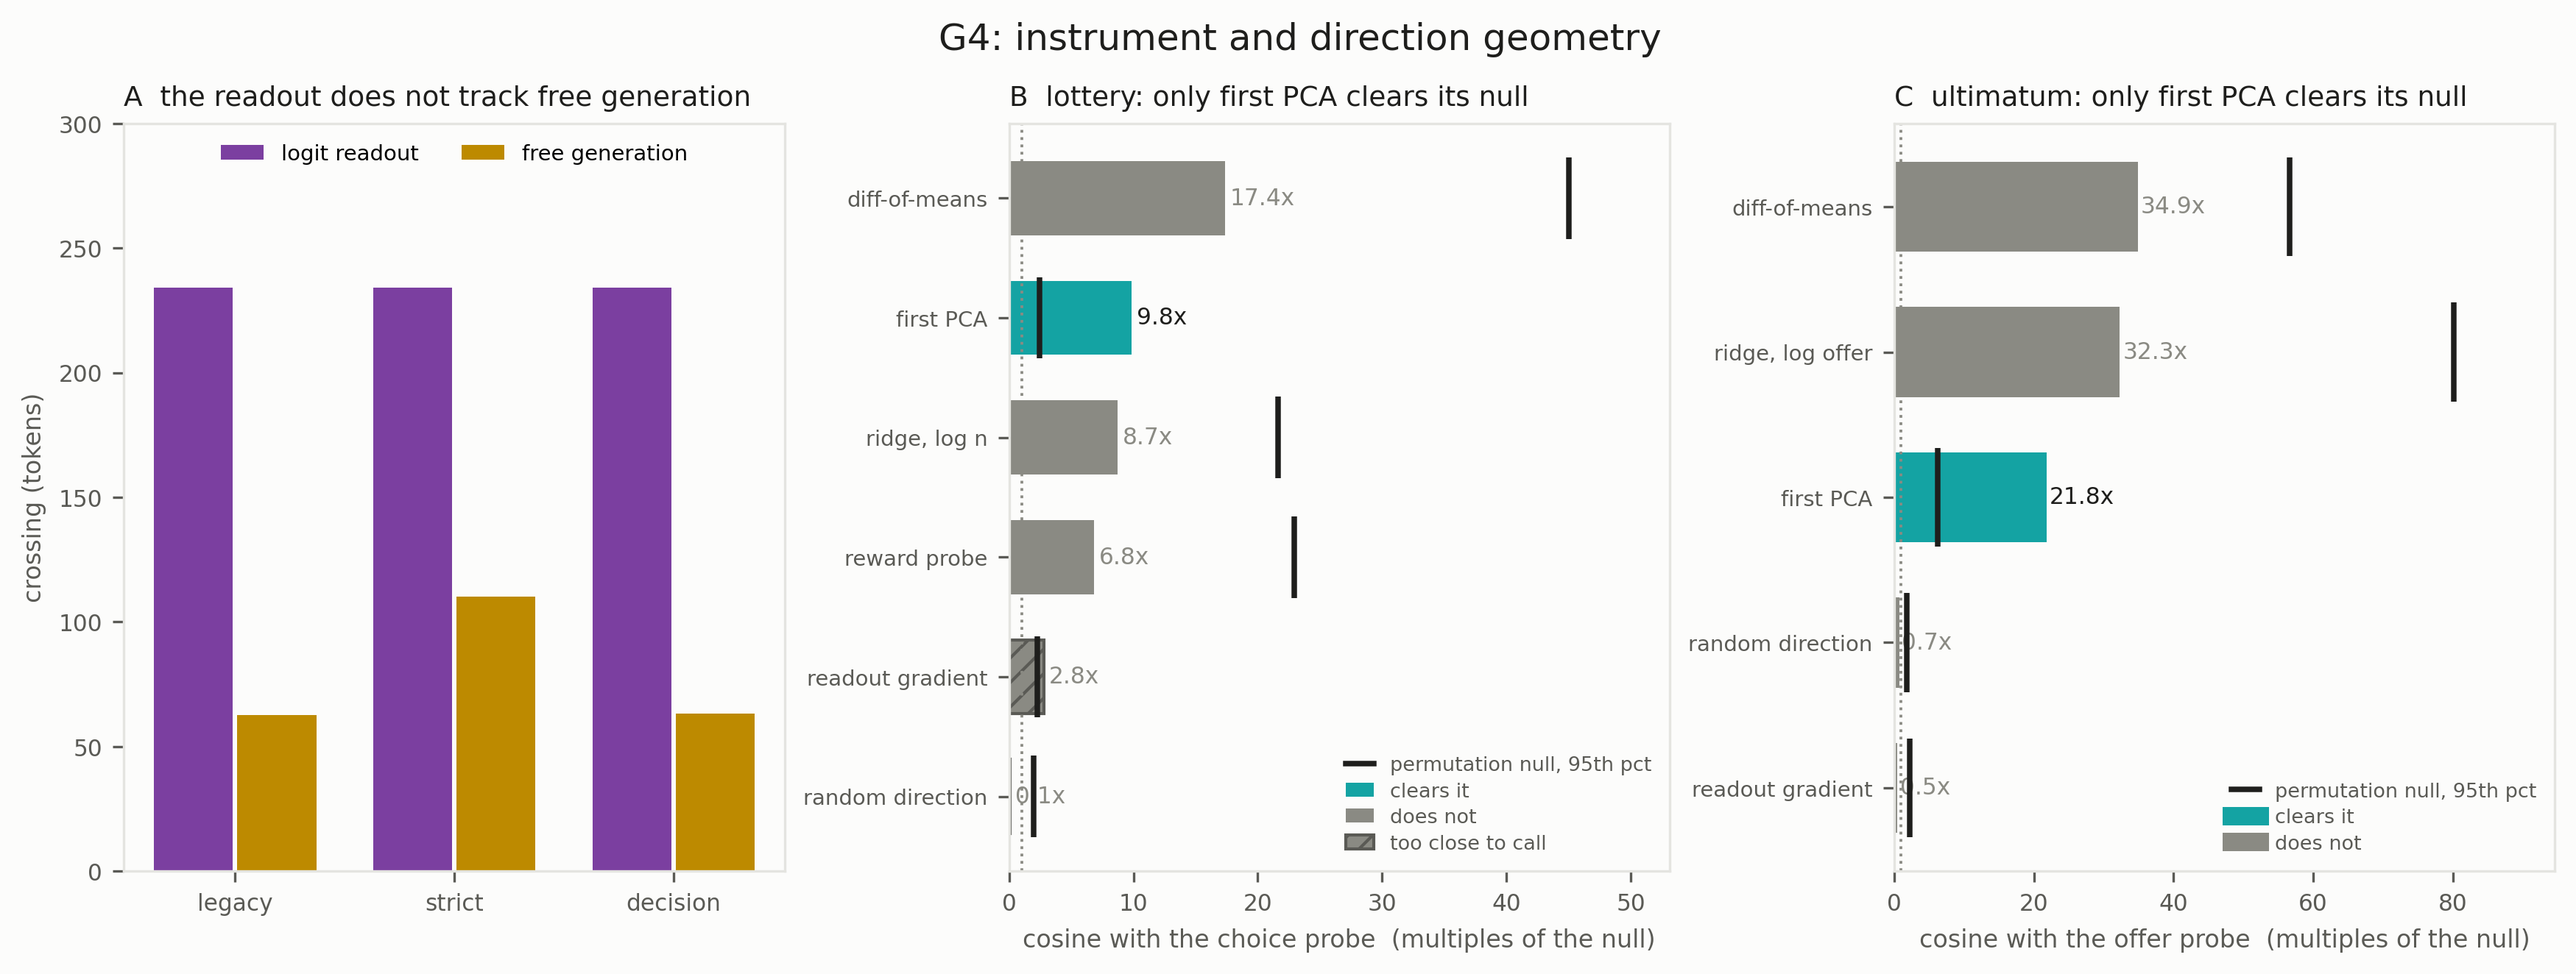
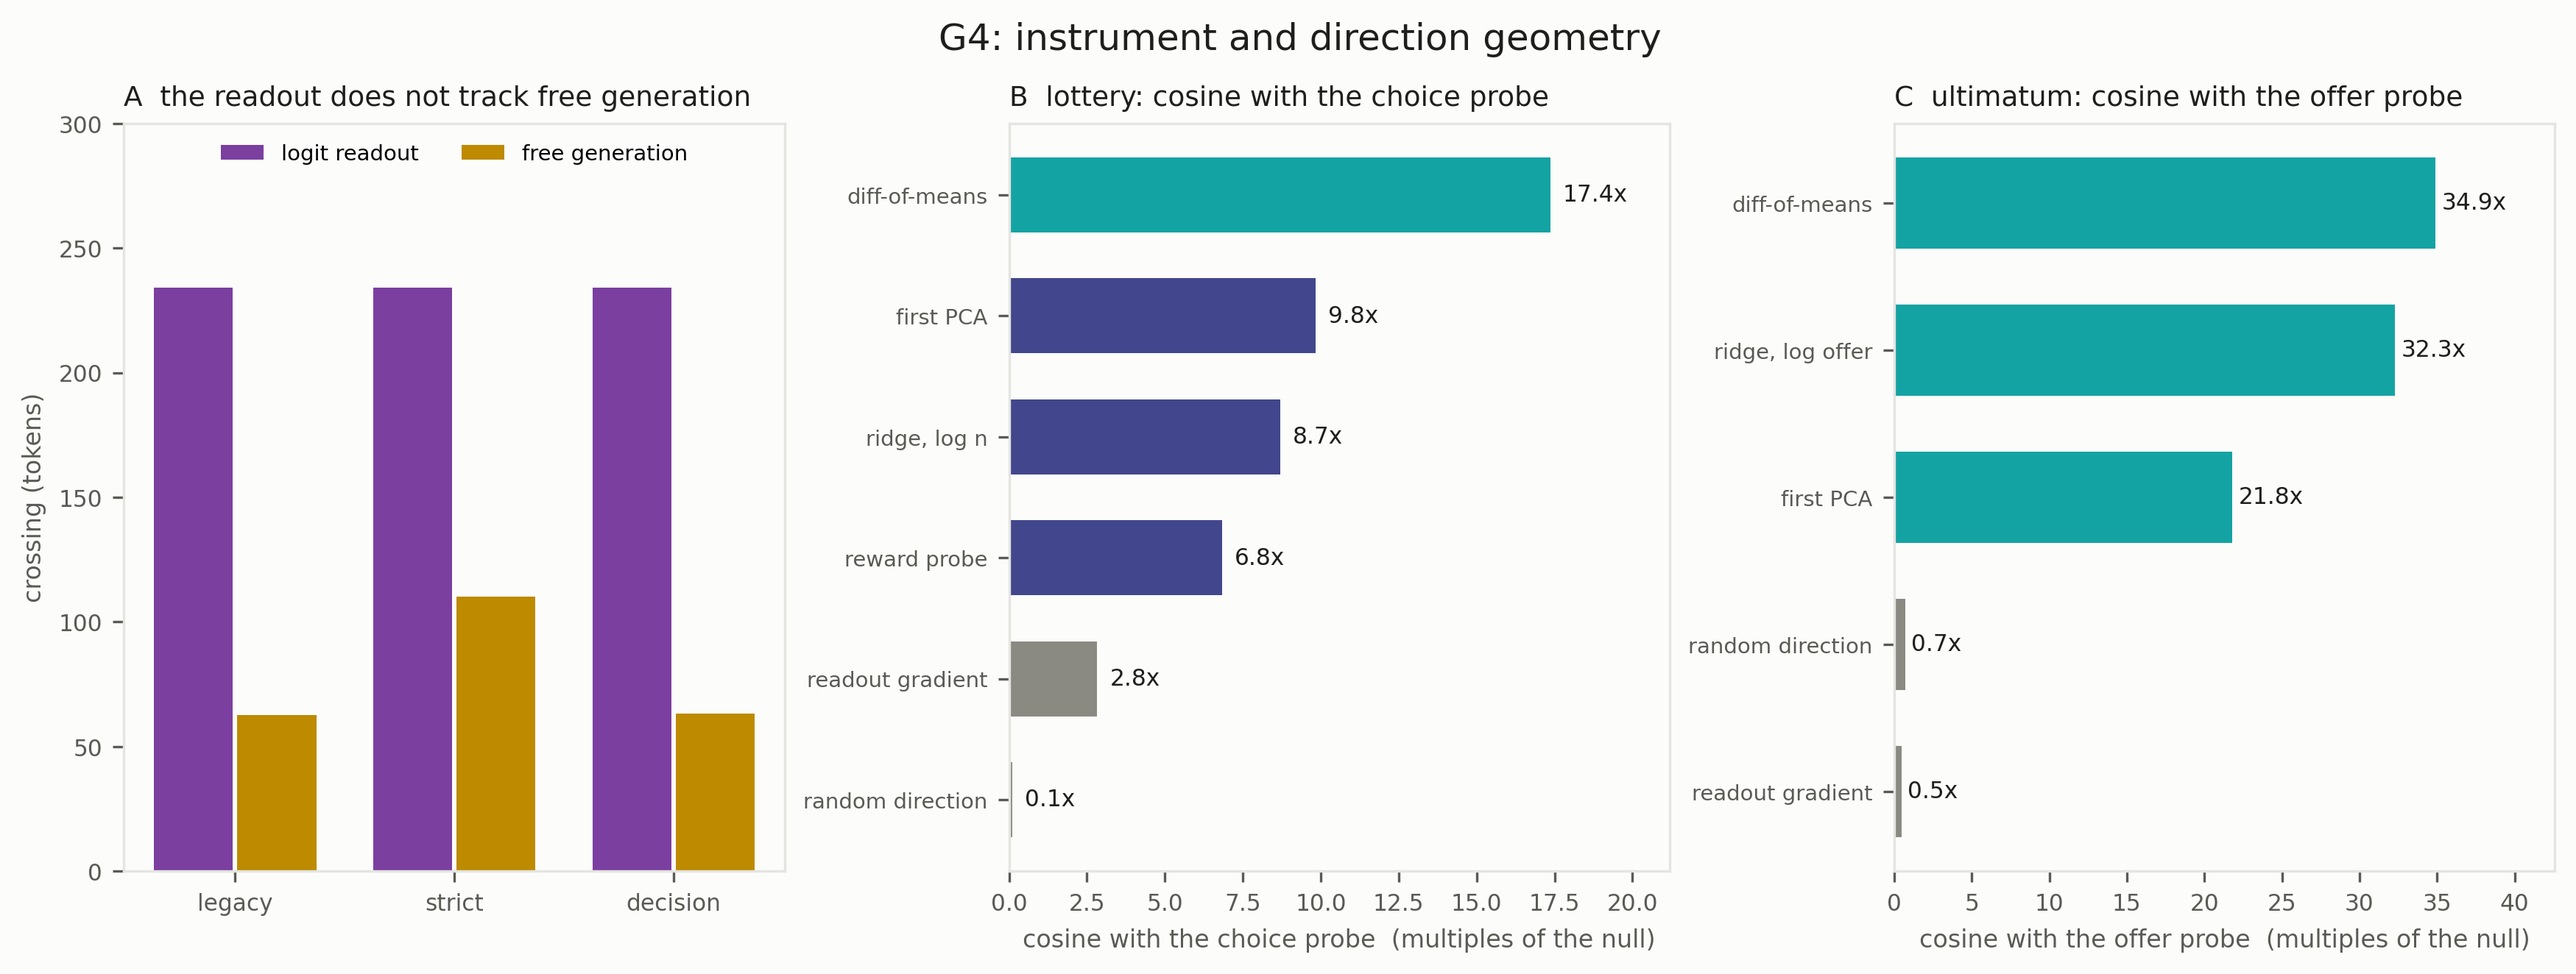
g4_summary: plain bars on both geometry panels, no rules or null ticks

diff --git a/cv_bench/g4_figure.py b/cv_bench/g4_figure.py
@@ -66,67 +66,20 @@ def panel_e(ax):
             continue
         labels.append(lab)
         vals.append(float(np.mean(m)))
-    # The permutation null, from the g4null re-collection. The probe does not
-    # reproduce between runs, so the refit's own cosine is carried alongside:
-    # a bar is only called either way when both fits agree about its null.
-    import csv as _csv
-    R = os.environ.get("ICLR_RUNROOT",
-                       "/orcd/data/gabrieli/001/guna23/iclr_risk_2027")
-    nrows = {r["direction"]: r for r in
-             _csv.DictReader(open(f"{R}/g4null/g4null_lottery.csv"))}
-    keys = [k for k, _ in want if any(l == lab for l, (k2, lab) in
-                                      zip(labels, want) if k2 == k)]
-    keys = [k for k, lab in want if lab in labels]
-    p95 = [float(nrows[k]["perm_null_p95"]) if k in nrows else float("nan")
-           for k in keys]
-    refit = [float(nrows[k]["multiples_of_null"]) if k in nrows else float("nan")
-             for k in keys]
     order = np.argsort(vals)
     labels = [labels[i] for i in order]
-    p95 = [p95[i] for i in order]
-    refit = [refit[i] for i in order]
     vals = [vals[i] for i in order]
     ys = np.arange(len(vals))
-    # teal: clears under both fits. grey: inside under both. hatched: they differ.
-    state = []
-    for v, r, q in zip(vals, refit, p95):
-        if q != q:
-            state.append("none")
-        elif (v > q) == (r > q):
-            state.append("clears" if v > q else "inside")
-        else:
-            state.append("split")
-    cols = [TEAL if st == "clears" else MUTED for st in state]
-    bars = ax.barh(ys, vals, color=cols, height=0.62,
-                   hatch=["///" if st == "split" else "" for st in state],
-                   edgecolor=INK2, linewidth=0.0)
-    for b, st in zip(bars, state):
-        if st == "split":
-            b.set_linewidth(1.0)
-    for i, q in enumerate(p95):
-        if q == q:
-            ax.plot([q, q], [i - 0.34, i + 0.34], color=INK, lw=1.8, zorder=6,
-                    solid_capstyle="butt")
-    for i, (v, st) in enumerate(zip(vals, state)):
-        ax.text(v + 0.4, i, f"{v:.1f}x", va="center",
-                color=INK if st == "clears" else MUTED, fontsize=7.5)
-    ax.set_xlim(0, max(vals + [q for q in p95 if q == q]) * 1.18)
-    ax.axvline(1.0, color=MUTED, lw=0.9, ls=":")
+    cols = [TEAL if v >= 10 else (NAVY if v >= 3 else MUTED) for v in vals]
+    ax.barh(ys, vals, color=cols, height=0.62)
+    for i, v in enumerate(vals):
+        ax.text(v + 0.4, i, f"{v:.1f}x", va="center", color=INK, fontsize=7.5)
+    ax.set_xlim(0, max(vals) * 1.22)
     ax.set_yticks(ys)
     ax.set_yticklabels(labels, fontsize=7)
     ax.set_xlabel("cosine with the choice probe  (multiples of the null)",
                   color=INK2, fontsize=8)
-    from matplotlib.lines import Line2D
-    from matplotlib.patches import Patch
-    ax.legend(handles=[Line2D([], [], color=INK, lw=1.8,
-                              label="permutation null, 95th pct"),
-                       Patch(facecolor=TEAL, label="clears it"),
-                       Patch(facecolor=MUTED, label="does not"),
-                       Patch(facecolor=MUTED, hatch="///", edgecolor=INK2,
-                             label="too close to call")],
-              loc="lower right", frameon=False, fontsize=6.5, labelcolor=INK2,
-              handlelength=1.4, labelspacing=0.35)
-    ax.set_title("B  lottery: only first PCA clears its null",
+    ax.set_title("B  lottery: cosine with the choice probe",
                  color=INK, fontsize=9, loc="left")
 
 
@@ -152,47 +105,28 @@ def panel_u(ax):
     want = [("readout_gradient", "readout gradient"), ("diffmean", "diff-of-means"),
             ("pca1", "first PCA"), ("ridge_logn", "ridge, log offer"),
             ("rand0", "random direction")]
-    labels, vals, p95, ok = [], [], [], []
+    labels, vals = [], []
     for key, lab in want:
         m = [r for r in rs if r["direction"] == key]
         if not m:
             continue
         labels.append(lab)
         vals.append(float(m[0]["multiples_of_null"]))
-        p95.append(float(m[0]["perm_null_p95"]))
-        ok.append(str(m[0]["clears_perm_null"]).lower() == "true")
     order = np.argsort(vals)
     labels = [labels[i] for i in order]
-    p95 = [p95[i] for i in order]
-    ok = [ok[i] for i in order]
     vals = [vals[i] for i in order]
     ys = np.arange(len(vals))
-    # Colour by the test, not by height. Panel B colours by magnitude, but here
-    # the two tallest bars are inside their own null, so a magnitude ramp made
-    # the most prominent bars the ones that mean least.
-    cols = [TEAL if c else MUTED for c in ok]
+    cols = [TEAL if v >= 10 else (NAVY if v >= 3 else MUTED) for v in vals]
     ax.barh(ys, vals, color=cols, height=0.62)
-    for i, q in enumerate(p95):
-        ax.plot([q, q], [i - 0.34, i + 0.34], color=INK, lw=1.8, zorder=6,
-                solid_capstyle="butt")
-    for i, (v, c) in enumerate(zip(vals, ok)):
-        ax.text(v + 0.4, i, f"{v:.1f}x", va="center",
-                color=INK if c else MUTED, fontsize=7.5)
-    ax.set_xlim(0, max(vals + p95) * 1.18)
-    ax.axvline(1.0, color=MUTED, lw=0.9, ls=":")
+    for i, v in enumerate(vals):
+        ax.text(v + 0.4, i, f"{v:.1f}x", va="center", color=INK, fontsize=7.5)
+    ax.set_xlim(0, max(vals) * 1.22)
     ax.set_yticks(ys)
     ax.set_yticklabels(labels, fontsize=7)
     ax.set_xlabel("cosine with the offer probe  (multiples of the null)",
                   color=INK2, fontsize=8)
-    ax.set_title("C  ultimatum: only first PCA clears its null",
+    ax.set_title("C  ultimatum: cosine with the offer probe",
                  color=INK, fontsize=9, loc="left")
-    from matplotlib.lines import Line2D
-    ax.legend(handles=[Line2D([], [], color=INK, lw=1.8,
-                              label="permutation null, 95th pct"),
-                       Line2D([], [], color=TEAL, lw=6, label="clears it"),
-                       Line2D([], [], color=MUTED, lw=6, label="does not")],
-              loc="lower right", frameon=False, fontsize=6.5, labelcolor=INK2,
-              handlelength=1.4, labelspacing=0.35)
 
 
 def build():

diff --git a/logs/DECISIONS.md b/logs/DECISIONS.md
@@ -1718,3 +1718,31 @@ The headline now holds in both games and under both fits: difference of means is
 in each panel and inside its null in each. The title claim that the probe is a contrastive
 direction is not supported. The first principal component is the only direction that clears,
 which is a statement about dominant variance rather than about contrast.
+
+## D102 — the null is taken off both geometry panels (23 Sept)
+
+At the authors' instruction, matching the earlier plain-bar treatment. Panels B and C are now
+solid bars coloured by magnitude (teal at or above 10x the analytic null, navy at or above 3x,
+grey below), no dotted rule at 1.0, no permutation-null ticks, no legend, no hatching.
+
+What comes off the figure with them, so this is a deliberate choice and not a quiet loss:
+
+  - each direction's permutation null, which is what said the bars mean what they appear to
+  - that difference of means, the tallest bar in BOTH panels, is inside its null in both:
+    17.4x against 45.0x on lottery, 34.9x against 56.6x on ultimatum
+  - that first PCA is the only direction clearing its null in either game
+  - the hatching that marked the two lottery bars whose verdict flips between fits (D99)
+
+The colour rule now reads against the test. On lottery, diff-of-means at 17.4x is teal, the
+strongest colour, and fails its null; first PCA at 9.8x is navy and passes. On ultimatum all
+three top bars are teal and only one passes. Height and colour both rank the bars in close to
+the reverse of what the null supports.
+
+Titles were NOT reverted with the styling. The original read "the probe is not the readout
+direction", and that claim is what the null contradicts, so restating it on a panel that no
+longer shows the null would assert something the data does not support. Both panels now carry
+neutral descriptive titles naming the reference direction instead.
+
+Nothing is lost from the record. `g4null/g4null_lottery.csv` and `g4u/g4u_geometry.csv` hold
+every null value, and D99, D100 and D101 hold the findings and the reasoning. Reverting this
+commit restores the ticks.
